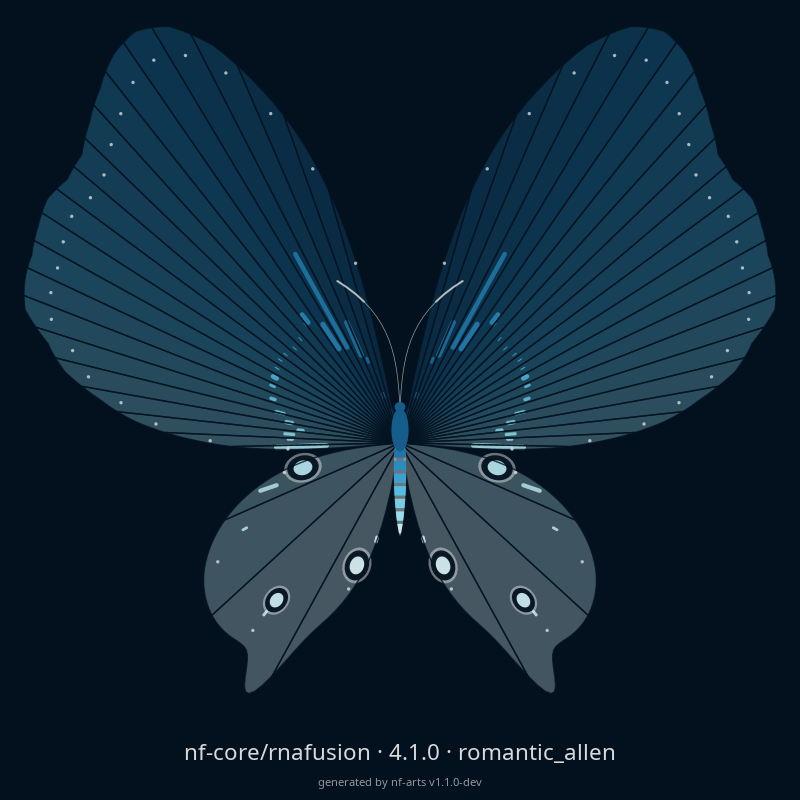
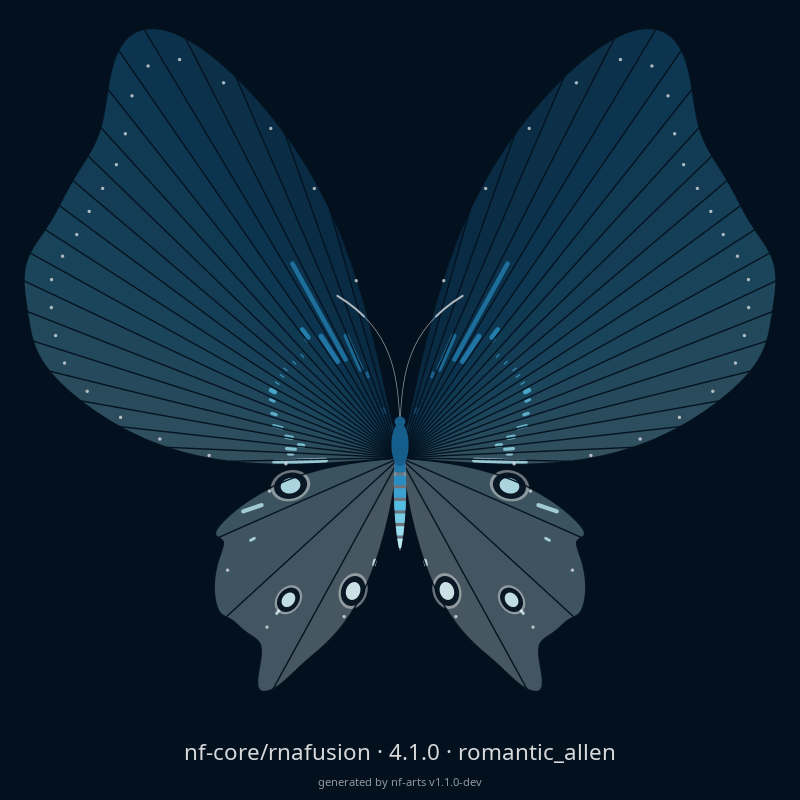
Restructure the butterfly style
Draw both sides through a MirrorCanvas instead of a closure, and let Cell
and Wing own their tasks, colors and geometry. Blend the outline with one
Gaussian, draw shared veins once and skip eyespots without memory data.

Changed region(s): [[0.0312, 0.0312, 0.9688, 0.875], [0.5938, 0.6562, 0.625, 0.6875], [0.375, 0.6562, 0.4062, 0.6875]]

diff --git a/docs/data.md b/docs/data.md
@@ -6,7 +6,7 @@ nf-arts draws from a few numbers per task. Nothing about your data, samples, inp
 
 | Field | Read from | Used for |
 | --- | --- | --- |
-| Process name | the process, without the task tag | Grouping tasks and picking colors, in order of first start. Never written into the image. |
+| Process name | the process, without the task tag | Grouping tasks and picking colors, in order of first start. In `butterfly`, a process's task count also sets its cell's width and its margin spot. Never written into the image. |
 | Start time | `start`, else `submit` | Position in time, relative to the first task of the run. |
 | Duration | `realtime`, else `duration` | Length of the shape. In `iris`, also the ring's shape and the highlight's position. In `butterfly`, also wing size, outline and tails. |
 | Peak memory | `peak_rss` | Width or size of the shape, on a log scale. In `butterfly`, also where the eyespots sit. |
@@ -16,7 +16,7 @@ Everything else is ignored, in live runs, history renders and trace files alike:
 
 ## What someone can read from an image
 
-- How many tasks ran (one shape per task, mirrored in `butterfly`) and how many processes (one ring, row, branch or color each).
+- How many tasks ran (one shape per task; `butterfly` mirrors each, and a run with a single process fills both wings with it, so four shapes per task) and how many processes (one ring, row, branch or color each).
 - The order processes started in, relative timing, durations and peak memory, roughly. The SVG keeps coordinates to 0.01 px, so these are more precise in an SVG than in a PNG.
 - Which tasks failed or were cached.
 
